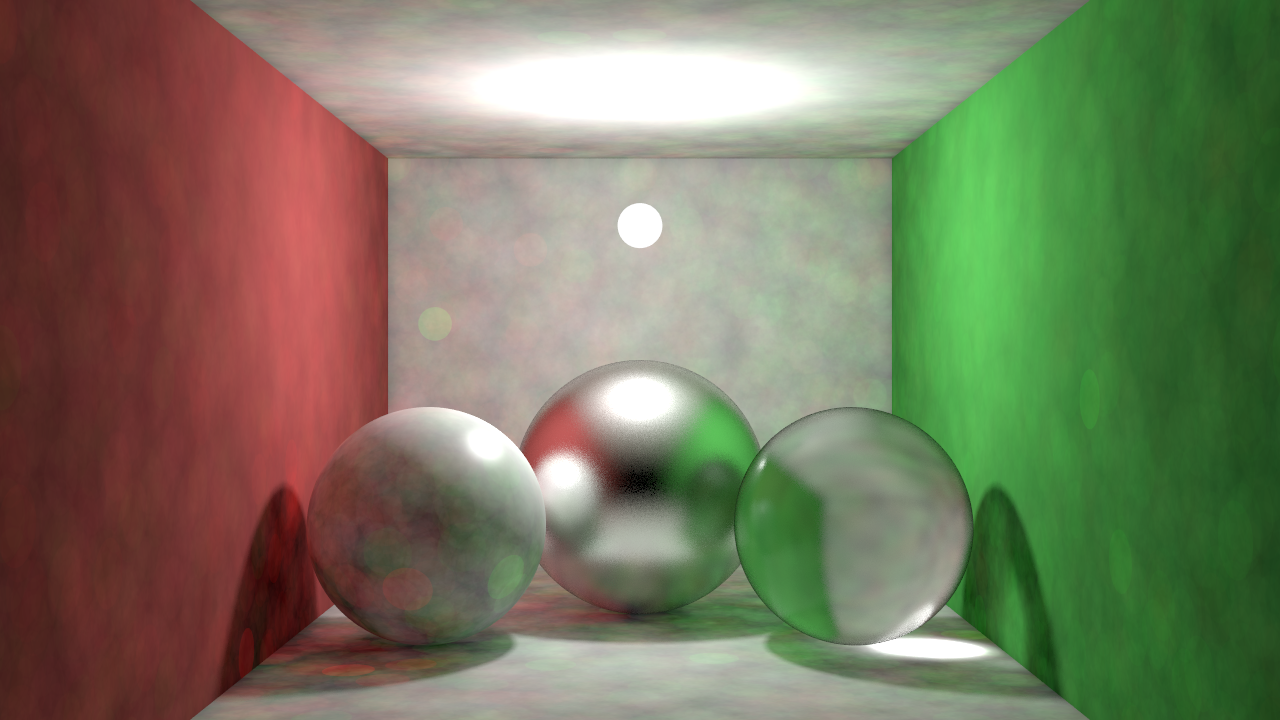
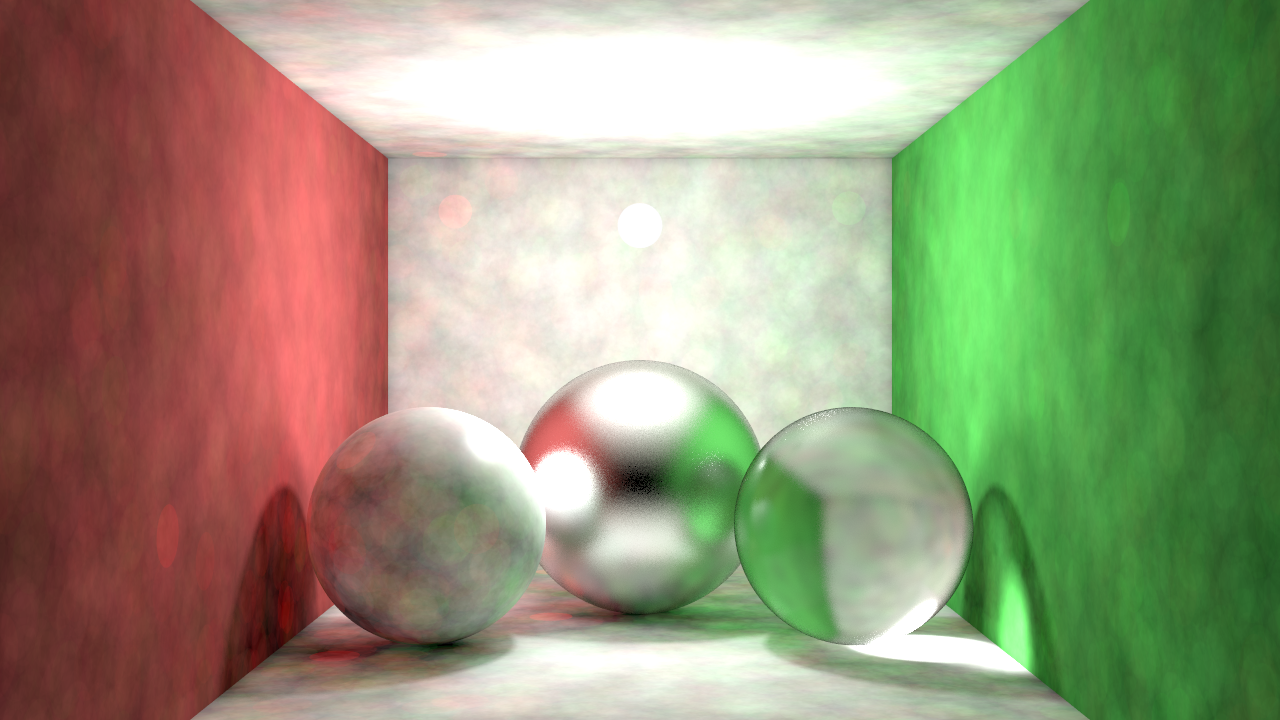
Simplified boolean logic in Shade

diff --git a/src/materials.cpp b/src/materials.cpp
@@ -11,8 +11,6 @@ namespace
     HaltonSeq<static_cast<int>(16)> haltonSeqTheta{ 3 };
 }
 
-//const bool doingDirectWithPhotonMapping{ true };
-
 Color MtlBlinn::Shade(ShadeInfo const &shadeInfo) const
 {
     Color finalColor{ emission.GetValue() };
@@ -23,26 +21,7 @@ Color MtlBlinn::Shade(ShadeInfo const &shadeInfo) const
     // Calculate color for this object
     const Color diffuseColor{ diffuse.Eval(shadeInfo.UVW()) };
 
-    if (doingDirectWithPhotonMapping)
-    {
-        if (IsPhotonSurface() || specular.GetValue().Sum() > 0.0f)
-        {
-            Color lightIntensity;
-            Vec3f lightDir;
-            renderer.GetPhotonMap()->EstimateIrradiance<128>(lightIntensity, lightDir, 1.0f, shadeInfo.P(), normal, 0.3f);
-
-            if (IsPhotonSurface())
-                finalColor += (1.0f / M_PI) * diffuseColor * lightIntensity;
-
-            if (specular.GetValue().Sum() > 0.0f)
-            {
-                const Vec3f halfway{ (shadeInfo.V() + lightDir).GetNormalized() };
-                const float blinnTerm{ std::max(0.0f, normal.Dot(halfway)) };
-                finalColor += ((glossiness.GetValue() + 2) / (8.0f * M_PI)) * specular.GetValue() * pow(blinnTerm, glossiness.GetValue()) * lightIntensity;
-            }
-        }
-    }
-    else
+    if (!doingDirectWithPhotonMapping)
     {
         for (int i{ 0 }; i < shadeInfo.NumLights(); ++i)
         {
@@ -63,70 +42,34 @@ Color MtlBlinn::Shade(ShadeInfo const &shadeInfo) const
 
             const Vec3f halfway{ (shadeInfo.V() + lightDir).GetNormalized() };
             const float blinnTerm{ std::max(0.0f, normal.Dot(halfway)) };
-            finalColor += ((glossiness.GetValue() + 2) / (8.0f * M_PI)) * specular.GetValue() * pow(blinnTerm, glossiness.GetValue()) * lightIntensity * geometryTerm;
+            finalColor += ((glossiness.GetValue() + 2.0f) / (8.0f * M_PI)) * specular.GetValue() * pow(blinnTerm, glossiness.GetValue()) * lightIntensity * geometryTerm;
         }
     }
 
-    if (!shadeInfo.CanBounce())
-        return finalColor;
-
-    if (!(doingDirectWithPhotonMapping && doingIndirectWithPhotonMapping))
+    // Using photon maps
+    if ((doingDirectWithPhotonMapping || doingIndirectWithPhotonMapping) && (IsPhotonSurface() || specular.GetValue().Sum() > 0.0f))
     {
-        if (doingIndirectWithPhotonMapping)
+        Color lightIntensity;
+        Vec3f lightDir;
+        renderer.GetPhotonMap()->EstimateIrradiance<128>(lightIntensity, lightDir, 1.0f, shadeInfo.P(), normal, 0.5f);
+
+        if (IsPhotonSurface())
+            finalColor += (1.0f / M_PI) * diffuseColor * lightIntensity;
+
+        if (specular.GetValue().Sum() > 0.0f)
         {
-            if (IsPhotonSurface() || specular.GetValue().Sum() > 0.0f)
-            {
-                Color lightIntensity;
-                Vec3f lightDir;
-                renderer.GetPhotonMap()->EstimateIrradiance<100>(lightIntensity, lightDir, 1.0f, shadeInfo.P(), normal, 0.5f);
-
-                if (IsPhotonSurface())
-                    finalColor += (1.0f / M_PI) * diffuseColor * lightIntensity;
-
-                if (specular.GetValue().Sum() > 0.0f)
-                {
-                    const Vec3f halfway{ (shadeInfo.V() + lightDir).GetNormalized() };
-                    const float blinnTerm{ std::max(0.0f, normal.Dot(halfway)) };
-                    finalColor += ((glossiness.GetValue() + 2) / (8.0f * M_PI)) * specular.GetValue() * pow(blinnTerm, glossiness.GetValue()) * lightIntensity;
-                }
-            }
-        }
-        // Monte Carlo global illumination
-        else if (diffuseColor.Sum() > 0.0f && shadeInfo.CurrentBounce() < 2)
-        {
-            const float phiOffset{ shadeInfo.RandomFloat() };
-            const float thetaOffset{ shadeInfo.RandomFloat() };
-            constexpr size_t numSamples{ 1 };
-            Color colorSum{ 0.0f };
-            for (size_t i{ 0 }; i < numSamples; ++i)
-            {
-                const float phi{ 2.0f * M_PI * fmod(haltonSeqPhi[shadeInfo.CurrentPixelSample() + i] + phiOffset, 1.0f) };
-                //const float cosTheta{ fmod(haltonSeqTheta[shadeInfo.CurrentPixelSample() + i] + thetaOffset, 1.0f) };
-                const float cosTheta{ sqrt(fmod(haltonSeqTheta[shadeInfo.CurrentPixelSample() + i] + thetaOffset, 1.0f)) };
-                const float sinTheta{ sqrt(1.0f - cosTheta * cosTheta) };
-
-                const float x{ sinTheta * cos(phi) };
-                const float y{ sinTheta * sin(phi) };
-                const float z{ cosTheta };
-
-                Vec3f u, v;
-                normal.GetOrthonormals(u, v);
-                const Vec3f monteWorldDir{ (x * u) + (y * v) + (z * normal) };
-                const Ray monteRay{ shadeInfo.P() + monteWorldDir * 0.0002f, monteWorldDir };
-
-                float dist;
-                //colorSum += shadeInfo.TraceSecondaryRay(monteRay, dist) * diffuseColor * cosTheta * 2.0f;
-                colorSum += shadeInfo.TraceSecondaryRay(monteRay, dist) * diffuseColor;
-            }
-            finalColor += colorSum / static_cast<float>(numSamples);
+            const Vec3f halfway{ (shadeInfo.V() + lightDir).GetNormalized() };
+            const float blinnTerm{ std::max(0.0f, normal.Dot(halfway)) };
+            finalColor += ((glossiness.GetValue() + 2.0f) / (8.0f * M_PI)) * specular.GetValue() * pow(blinnTerm, glossiness.GetValue()) * lightIntensity;
         }
     }
 
+    // Using Caustics
     if (doingCaustics && (IsPhotonSurface() || specular.GetValue().Sum() > 0.0f))
     {
         Color lightIntensity;
         Vec3f lightDir;
-        renderer.GetCausticsMap()->EstimateIrradiance<100>(lightIntensity, lightDir, 1.0f, shadeInfo.P(), normal, 0.5f);
+        renderer.GetCausticsMap()->EstimateIrradiance<128>(lightIntensity, lightDir, 1.0f, shadeInfo.P(), normal, 0.5f);
 
         if (IsPhotonSurface())
             finalColor += (1.0f / M_PI) * diffuseColor * lightIntensity;
@@ -137,6 +80,40 @@ Color MtlBlinn::Shade(ShadeInfo const &shadeInfo) const
             const float blinnTerm{ std::max(0.0f, normal.Dot(halfway)) };
             finalColor += ((glossiness.GetValue() + 2) / (8.0f * M_PI)) * specular.GetValue() * pow(blinnTerm, glossiness.GetValue()) * lightIntensity;
         }
+    }
+
+
+    if (!shadeInfo.CanBounce())
+        return finalColor;
+
+    // Not using photon mapping for indirect (do monte-carlo instead)
+    if (!doingIndirectWithPhotonMapping && (diffuseColor.Sum() > 0.0f && shadeInfo.CurrentBounce() < 2))
+    {
+        const float phiOffset{ shadeInfo.RandomFloat() };
+        const float thetaOffset{ shadeInfo.RandomFloat() };
+        constexpr size_t numSamples{ 1 };
+        Color colorSum{ 0.0f };
+        for (size_t i{ 0 }; i < numSamples; ++i)
+        {
+            const float phi{ 2.0f * M_PI * fmod(haltonSeqPhi[shadeInfo.CurrentPixelSample() + i] + phiOffset, 1.0f) };
+            //const float cosTheta{ fmod(haltonSeqTheta[shadeInfo.CurrentPixelSample() + i] + thetaOffset, 1.0f) };
+            const float cosTheta{ sqrt(fmod(haltonSeqTheta[shadeInfo.CurrentPixelSample() + i] + thetaOffset, 1.0f)) };
+            const float sinTheta{ sqrt(1.0f - cosTheta * cosTheta) };
+
+            const float x{ sinTheta * cos(phi) };
+            const float y{ sinTheta * sin(phi) };
+            const float z{ cosTheta };
+
+            Vec3f u, v;
+            normal.GetOrthonormals(u, v);
+            const Vec3f monteWorldDir{ (x * u) + (y * v) + (z * normal) };
+            const Ray monteRay{ shadeInfo.P() + monteWorldDir * 0.0002f, monteWorldDir };
+
+            float dist;
+            //colorSum += shadeInfo.TraceSecondaryRay(monteRay, dist) * diffuseColor * cosTheta * 2.0f;
+            colorSum += shadeInfo.TraceSecondaryRay(monteRay, dist) * diffuseColor;
+        }
+        finalColor += colorSum / static_cast<float>(numSamples);
     }
 
     // Reflections

diff --git a/src/main.cpp b/src/main.cpp
@@ -292,6 +292,7 @@ int main()
     // Fill in photon map
 
     // In this case, just record first bounce
+    // TODO: Terminate when it hits anything. Only record if IsPhotonSurface()
     if (!doingIndirectWithPhotonMapping && doingDirectWithPhotonMapping)
     {
         const Light* light{ renderer.GetScene().lights[0] };
